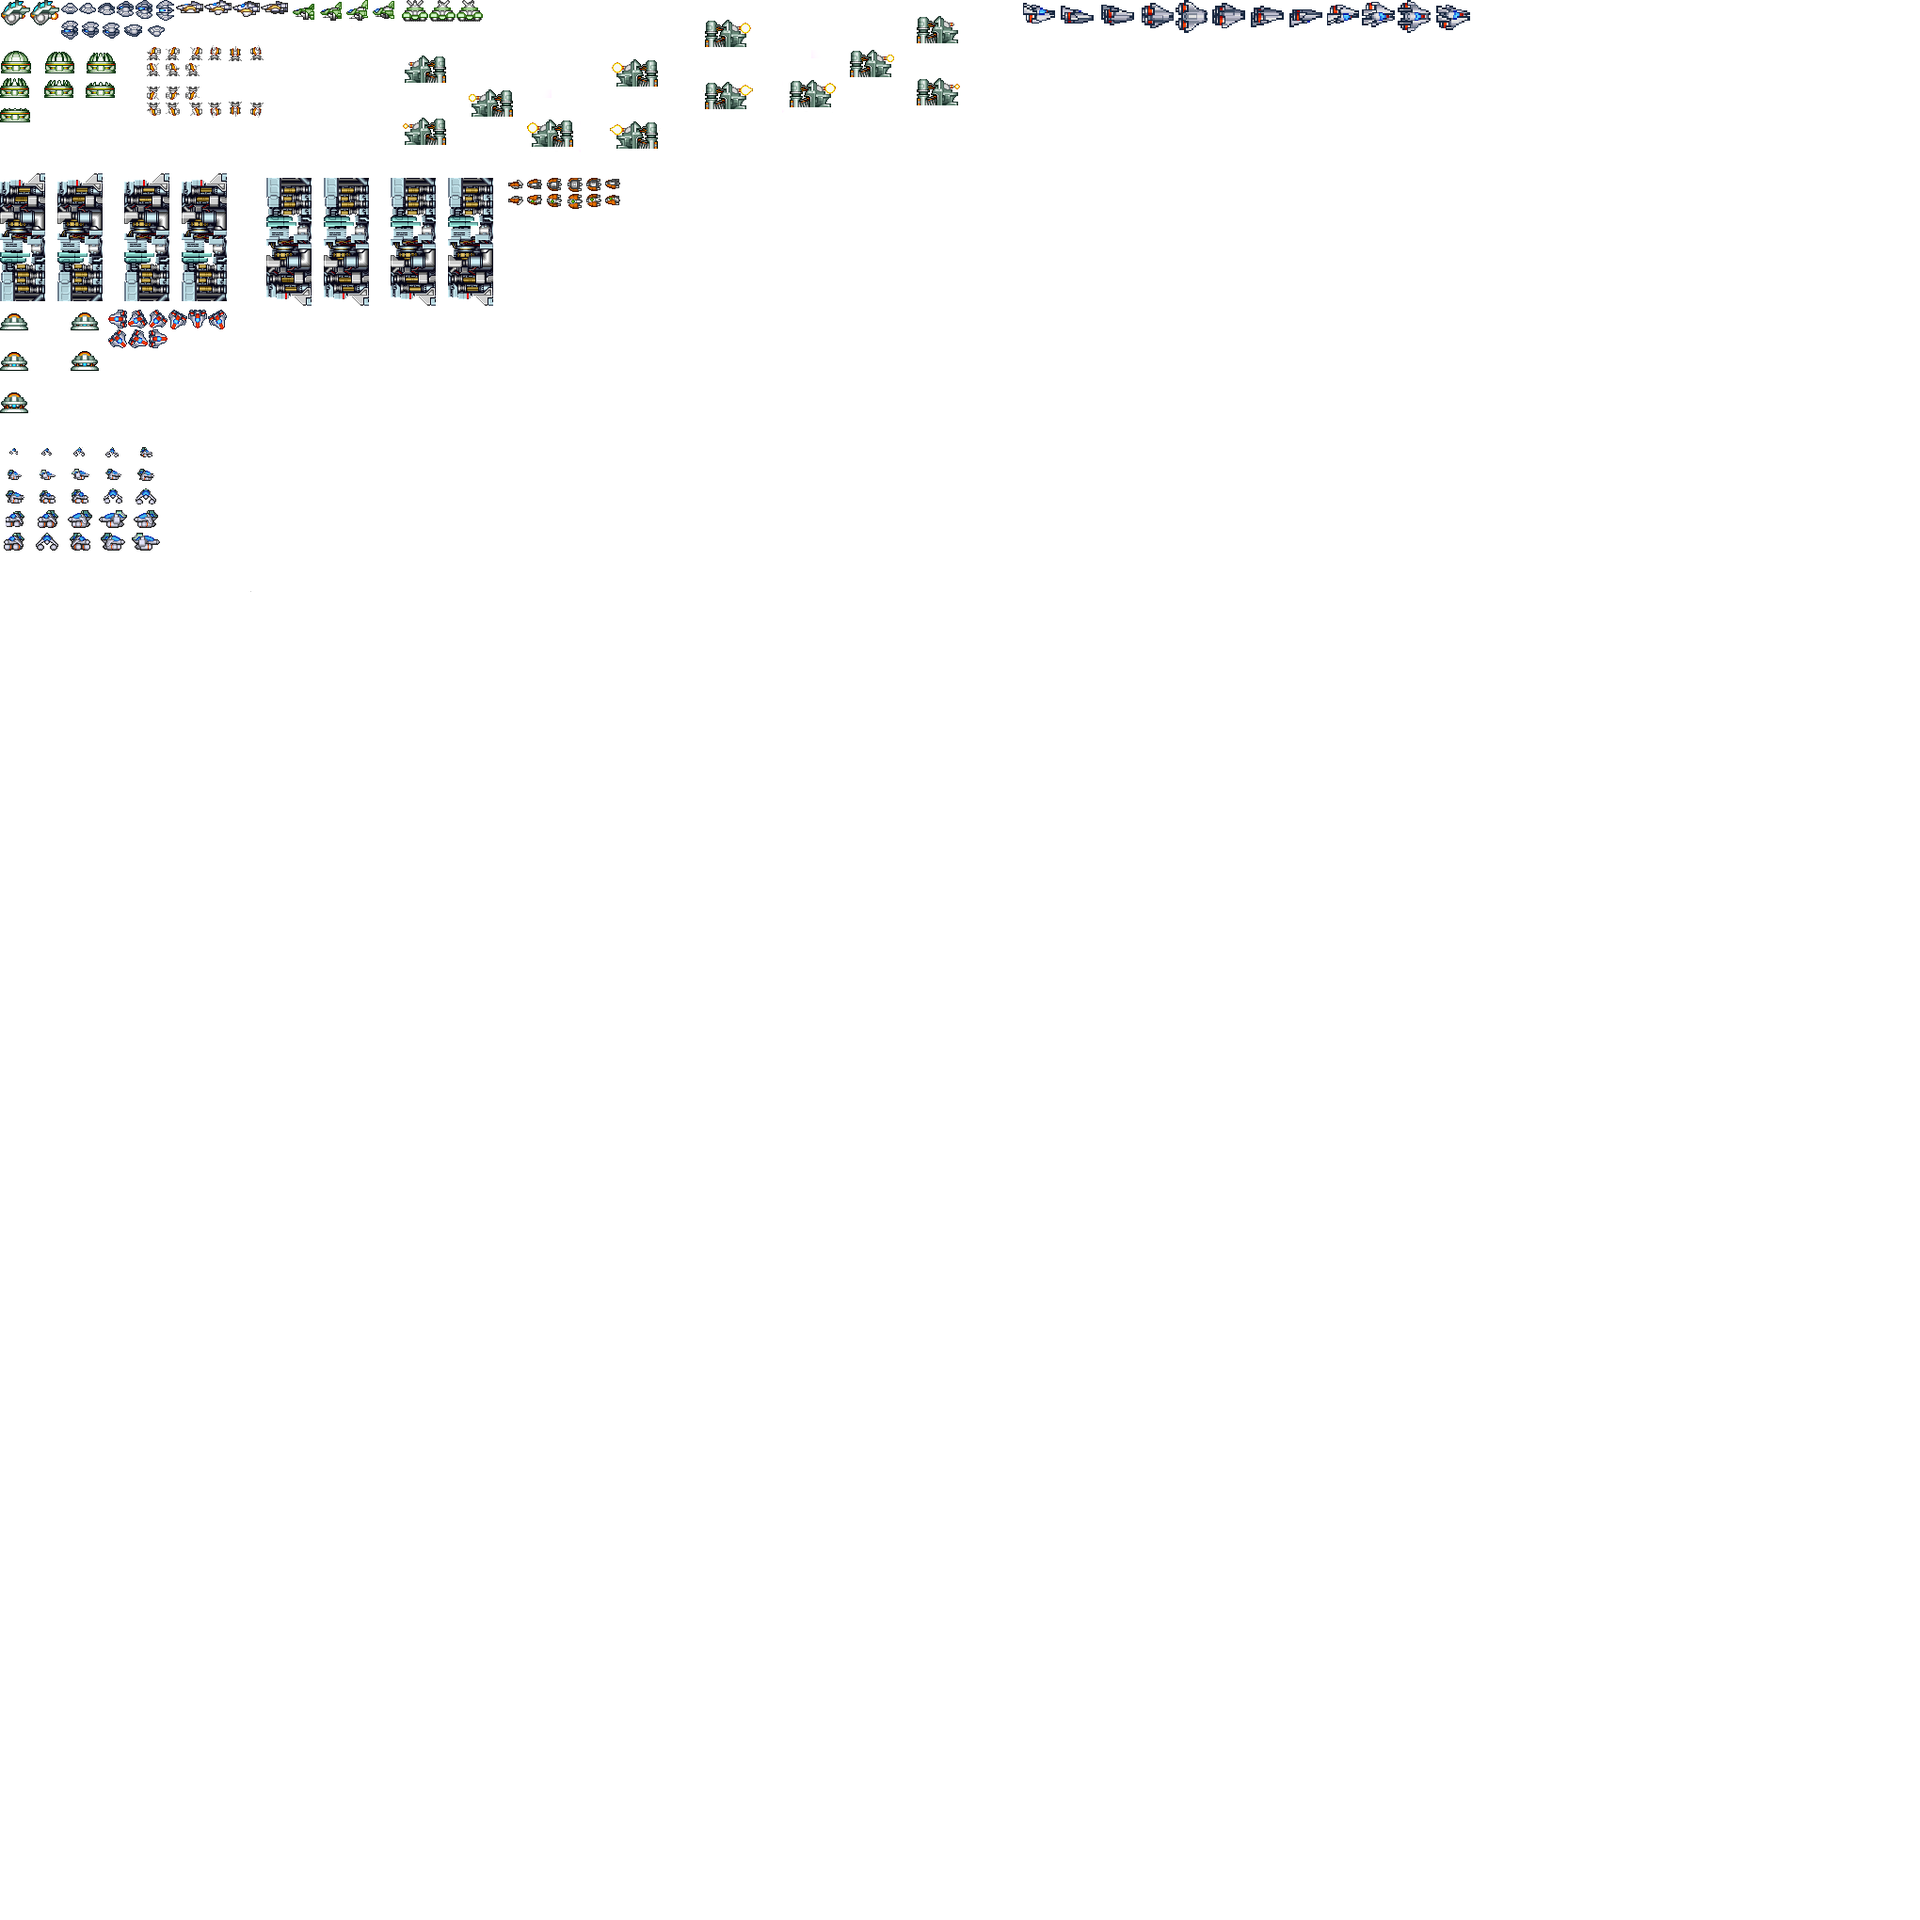
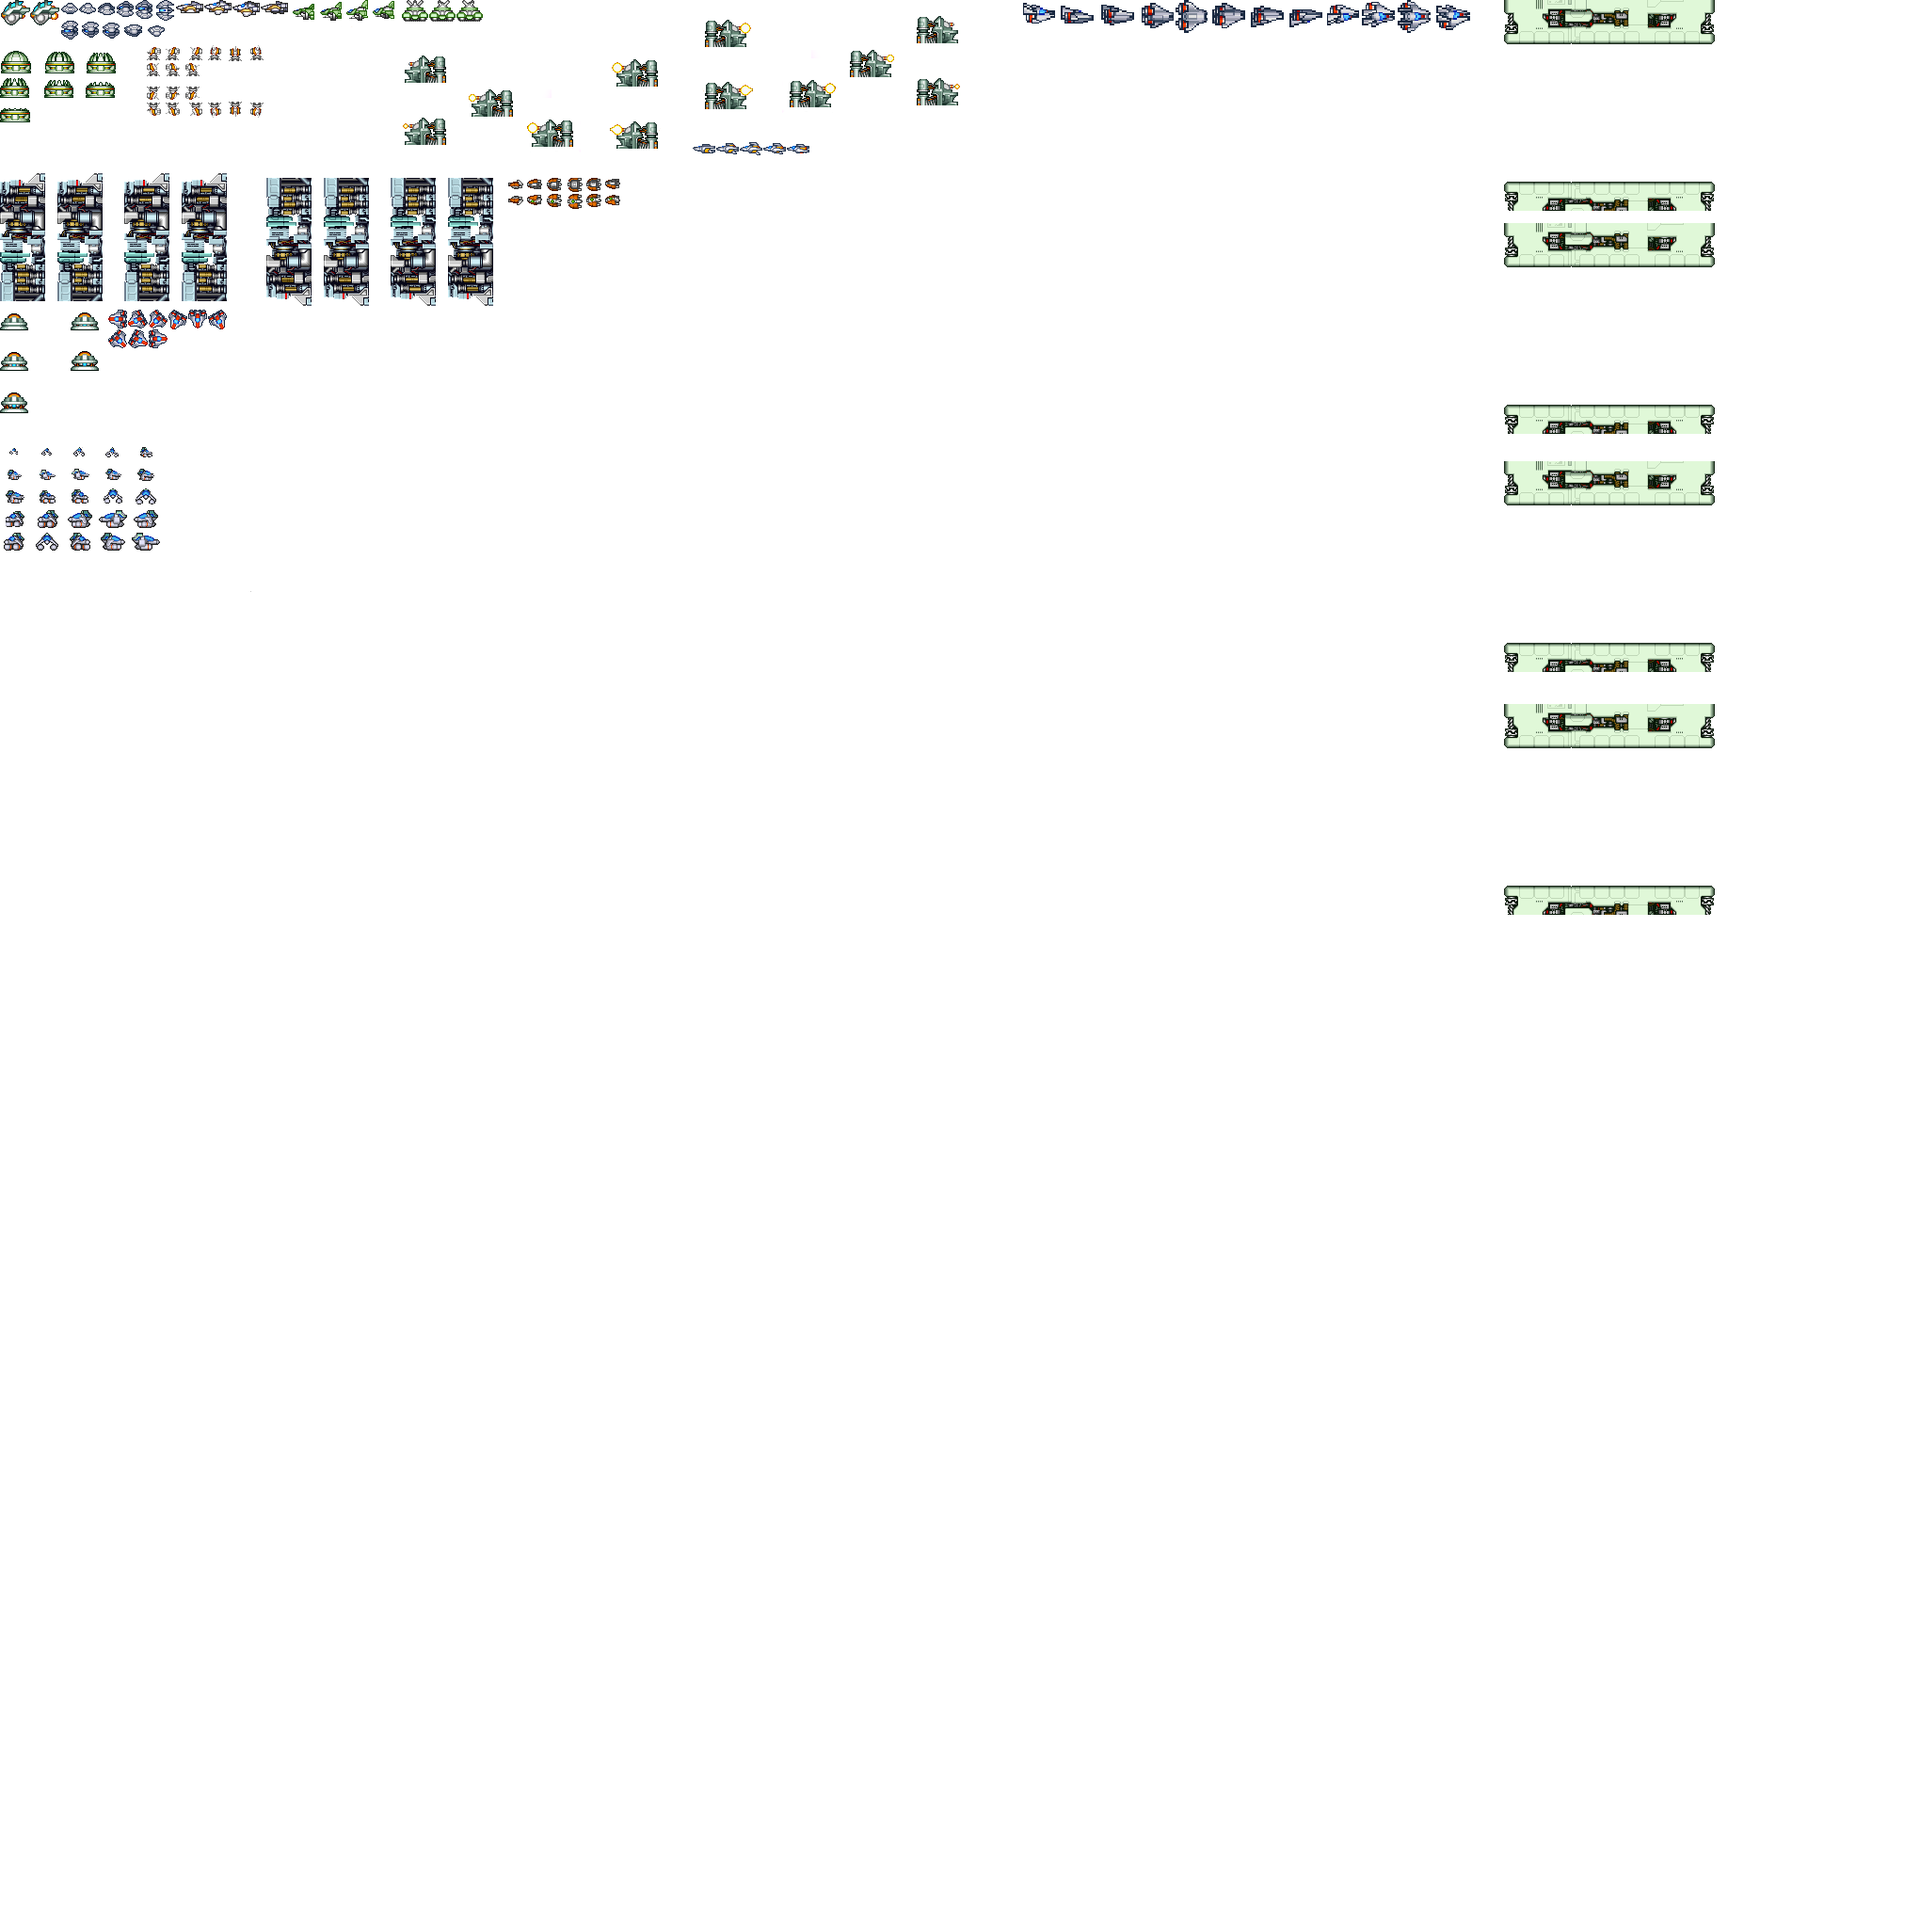
IDK what Ive done

diff --git a/--AndroDunos--#GAME_FILES#/ModuleEnemies.cpp b/--AndroDunos--#GAME_FILES#/ModuleEnemies.cpp
@@ -15,12 +15,14 @@
 #include "Enemy_VerticalStructure.h"
 #include "Enemy_TripleTurret.h"
 #include "Enemy_Elevator.h"
+#include "Enemy_Elevator2.h"
 #include "Enemy_MovementLaser.h"
 #include "Enemy_Ship.h"
 #include "Enemy_HandShip.h"
 #include "Enemy_Multicolor.h"
 #include "Enemy_Small.h"
 #include "ModulePlayer.h"
+#include "Enemy_WhiteYellow.h"
 
 
 
@@ -84,7 +86,7 @@ update_status ModuleEnemies::PostUpdate()
 	{
 		if (enemies[i] != nullptr)
 		{
-			if (enemies[i]->position.x * SCREEN_SIZE < (App->render->camera.x) - SPAWN_MARGIN - 80)
+			if (enemies[i]->position.x * SCREEN_SIZE < (App->render->camera.x) - SPAWN_MARGIN - 80 && !ENEMY_TYPES::ELEVATOR && !ENEMY_TYPES::ELEVATOR2)
 			{
 				delete enemies[i];
 				enemies[i] = nullptr;
@@ -155,7 +157,7 @@ void ModuleEnemies::SpawnEnemy(const EnemyInfo& info)
 			enemies[i] = new Enemy_StraightOnShip(info.x, info.y, info.num);
 			break;
 		case ENEMY_TYPES::SHIPGREEN:
-			enemies[i] = new Enemy_ShipGreen(info.x, info.y);
+			enemies[i] = new Enemy_ShipGreen(info.x, info.y, info.z);
 			break;
 		case ENEMY_TYPES::GREENTURRET:
 			enemies[i] = new Enemy_GreenTurret(info.x, info.y,info.z);
@@ -177,6 +179,9 @@ void ModuleEnemies::SpawnEnemy(const EnemyInfo& info)
 		case ENEMY_TYPES::ELEVATOR:
 			enemies[i] = new Enemy_Elevator(info.x, info.y);
 			break;
+		case ENEMY_TYPES::ELEVATOR2:
+			enemies[i] = new Enemy_Elevator2(info.x, info.y);
+			break;
 		case ENEMY_TYPES::MOVEMENTLASER:
 			enemies[i] = new Enemy_MovementLaser(info.x, info.y);
 			break;
@@ -191,6 +196,9 @@ void ModuleEnemies::SpawnEnemy(const EnemyInfo& info)
 			break;
 		case ENEMY_TYPES::SMALL:
 			enemies[i] = new Enemy_Small(info.x, info.y);
+			break;
+		case ENEMY_TYPES::WHITEYELLOW:
+			enemies[i] = new Enemy_WhiteYellow(info.x, info.y);
 			break;
 		}
 	}
@@ -268,8 +276,9 @@ void ModuleEnemies::OnCollision(Collider* c1, Collider* c2)
 				break;
 			case ELEVATOR:
 				enemies[i]->OnCollision(c2);
-				delete enemies[i];
-				enemies[i] = nullptr;
+				break;
+			case ELEVATOR2:
+				enemies[i]->OnCollision(c2);
 				break;
 			case MOVEMENTLASER:
 				enemies[i]->OnCollision(c2);
@@ -292,6 +301,11 @@ void ModuleEnemies::OnCollision(Collider* c1, Collider* c2)
 				enemies[i] = nullptr;
 				break;
 			case SMALL:
+				enemies[i]->OnCollision(c2);
+				delete enemies[i];
+				enemies[i] = nullptr;
+				break;
+			case WHITEYELLOW:
 				enemies[i]->OnCollision(c2);
 				delete enemies[i];
 				enemies[i] = nullptr;

diff --git a/--AndroDunos--#GAME_FILES#/ModuleStage2.cpp b/--AndroDunos--#GAME_FILES#/ModuleStage2.cpp
@@ -129,13 +129,13 @@ bool ModuleStage2::Start()
 	App->enemies->AddEnemy(ENEMY_TYPES::WHITESHIP, 504, 120);*/
 
 	// well position
-	App->enemies->AddEnemy(ENEMY_TYPES::SHIPGREEN, 270, 140);
-	App->enemies->AddEnemy(ENEMY_TYPES::SHIPGREEN, 295, 163);
-	App->enemies->AddEnemy(ENEMY_TYPES::SHIPGREEN, 320, 140);
+	App->enemies->AddEnemy(ENEMY_TYPES::SHIPGREEN, 270, 140, true);
+	App->enemies->AddEnemy(ENEMY_TYPES::SHIPGREEN, 295, 163, true);
+	App->enemies->AddEnemy(ENEMY_TYPES::SHIPGREEN, 320, 140, true);
 
-	App->enemies->AddEnemy(ENEMY_TYPES::SHIPGREEN, 360, 39);
-	App->enemies->AddEnemy(ENEMY_TYPES::SHIPGREEN, 375, 62);
-	App->enemies->AddEnemy(ENEMY_TYPES::SHIPGREEN, 392, 39);
+	App->enemies->AddEnemy(ENEMY_TYPES::SHIPGREEN, 360, 39, true);
+	App->enemies->AddEnemy(ENEMY_TYPES::SHIPGREEN, 375, 62, true);
+	App->enemies->AddEnemy(ENEMY_TYPES::SHIPGREEN, 392, 39, true);
 
 	App->powerups->AddPowerUp(POWERUPS_TYPES::SHIPPOWERUP, 400, 100);
 
@@ -151,6 +151,9 @@ bool ModuleStage2::Start()
 	App->enemies->AddEnemy(ENEMY_TYPES::VERTICALSTRUCTURE, 2453, -145, false);
 	App->enemies->AddEnemy(ENEMY_TYPES::VERTICALSTRUCTURE, 2614, -145, false); 
 	App->enemies->AddEnemy(ENEMY_TYPES::VERTICALSTRUCTURE, 2757, 245, true);
+
+	App->enemies->AddEnemy(ENEMY_TYPES::ELEVATOR, 3544, -400);
+	App->enemies->AddEnemy(ENEMY_TYPES::ELEVATOR2, 3544, 191);
 
 	App->enemies->AddEnemy(ENEMY_TYPES::GREENTURRET, 3504, 501, false);
 	App->enemies->AddEnemy(ENEMY_TYPES::GREENTURRET, 3761, 501, true);
@@ -240,7 +243,7 @@ update_status ModuleStage2::Update()
 		}
 	}
 
-	if (stop_p == true && App->render->camera.x >= 3502 * SCREEN_SIZE && App->render->camera.x <= 3806 * SCREEN_SIZE && App->render->camera.y >= 0 * SCREEN_SIZE && App->render->camera.y < 1571 * SCREEN_SIZE)
+	if (stop_p == true && App->render->camera.x >= 3502 * SCREEN_SIZE && App->render->camera.x <= 3806 * SCREEN_SIZE && App->render->camera.y >= 0 * SCREEN_SIZE && App->render->camera.y < 1571 * SCREEN_SIZE && App->enemies->timeelevator>=560)
 	{
 		App->render->camera.y += 1 * SCREEN_SIZE; // speed in y axes
 		App->player->position.y += 1;

diff --git a/--AndroDunos--#GAME_FILES#/Enemy_ShipGreen.cpp b/--AndroDunos--#GAME_FILES#/Enemy_ShipGreen.cpp
@@ -9,7 +9,7 @@
 
 
 
-Enemy_ShipGreen::Enemy_ShipGreen(int x, int y) : Enemy(x, y)
+Enemy_ShipGreen::Enemy_ShipGreen(int x, int y, bool gun) : Enemy(x, y)
 {
 	type = SHIPGREEN;
 
@@ -22,24 +22,25 @@ Enemy_ShipGreen::Enemy_ShipGreen(int x, int y) : Enemy(x, y)
 	animation = &fly;
 
 	collider = App->collision->AddCollider({ 0, 0, 23, 22 }, COLLIDER_TYPE::COLLIDER_ENEMY, (Module*)App->enemies);
-
+	this->gun = gun;
 	original_y = y;
 }
 
 void Enemy_ShipGreen::Move()
 {
 	position.x -= 1;
-
-	shot++;
-	if (shot == 60) {
-		x = App->player->position.x - position.x;
-		y = App->player->position.y - position.y;
-		m = sqrt((x*x) + (y*y));
-		x = x / m;
-		y = y / m;
-		App->particles->followlaser.speed.x = x * 1.8f;
-		App->particles->followlaser.speed.y = y * 1.8f;
-		App->particles->AddParticle(App->particles->followlaser, position.x + 8, position.y + 15, COLLIDER_ENEMY_SHOT);
+	if (gun) {
+		shot++;
+		if (shot == 60) {
+			x = App->player->position.x - position.x;
+			y = App->player->position.y - position.y;
+			m = sqrt((x*x) + (y*y));
+			x = x / m;
+			y = y / m;
+			App->particles->followlaser.speed.x = x * 1.8f;
+			App->particles->followlaser.speed.y = y * 1.8f;
+			App->particles->AddParticle(App->particles->followlaser, position.x + 8, position.y + 15, COLLIDER_ENEMY_SHOT);
+		}
 	}
 }
 

diff --git a/--AndroDunos--#GAME_FILES#/Enemy_WhiteYellow.cpp b/--AndroDunos--#GAME_FILES#/Enemy_WhiteYellow.cpp
@@ -1,0 +1,38 @@
+#include "Application.h"
+#include "Enemy_WhiteYellow.h"
+#include "ModuleCollision.h"
+#include "ModuleParticles.h"
+#include "ModuleEnemies.h"
+
+Enemy_WhiteYellow::Enemy_WhiteYellow(int x, int y) : Enemy(x, y)
+{
+	type = WHITEYELLOW;
+
+	fly.PushBack({ 736,153,24,10 });
+	fly.PushBack({ 761,152,24,12 });
+	fly.PushBack({ 786,151,24,14 });
+	fly.PushBack({ 811,152,24,12 });
+	fly.PushBack({ 836,153,24,10 });
+	fly.PushBack({ 811,152,24,12 });
+	fly.PushBack({ 786,151,24,14 });
+	fly.PushBack({ 761,152,24,12 });
+
+	fly.speed = 0.1f;
+
+	animation = &fly;
+
+	collider = App->collision->AddCollider({ 0, 0, 24, 12 }, COLLIDER_TYPE::COLLIDER_ENEMY, (Module*)App->enemies);
+
+	original_y = y;
+}
+
+void Enemy_WhiteYellow::Move()
+{
+
+	position.x -= 1;
+
+}
+
+void Enemy_WhiteYellow::OnCollision(Collider* collider) {
+	App->particles->AddParticle(App->particles->explosion, position.x, position.y);
+}

diff --git a/--AndroDunos--#GAME_FILES#/Enemy_Elevator.cpp b/--AndroDunos--#GAME_FILES#/Enemy_Elevator.cpp
@@ -10,14 +10,25 @@ Enemy_Elevator::Enemy_Elevator(int x, int y) : Enemy(x, y)
 {
 	type = ELEVATOR;
 	
+	elevator.PushBack({ 1598, 0, 224, 47 });
+	elevator.PushBack({ 1598, 237, 224, 47 });
+	elevator.PushBack({ 1598, 490, 224, 47 });
+	elevator.PushBack({ 1598, 748, 224, 47 });
+	elevator.speed = 0.02f;
+	animation = &elevator;
 
-	collider = App->collision->AddCollider({ 0, 0, 44, 29 }, COLLIDER_TYPE::COLLIDER_ENEMY, (Module*)App->enemies);
+	path.PushBack({ 0.0f, 1.0f }, 400);
+	path.PushBack({ 0.0f, 0.0f }, 160);
+	path.PushBack({ 0.0f, 1.0f }, 1500);
+	collider = App->collision->AddCollider({ 0, 0, 224, 47 }, COLLIDER_TYPE::COLLIDER_ENEMY, (Module*)App->enemies);
 
-	original_y = y;
+	original_pos.x = x;
+	original_pos.y = y;
 }
 void Enemy_Elevator::Move()
 {
-
+	position = original_pos + path.GetCurrentSpeed();
+	App->enemies->timeelevator++;
 }
 void Enemy_Elevator::OnCollision(Collider* collider) {
 

diff --git a/--AndroDunos--#GAME_FILES#/Enemy_Elevator2..cpp b/--AndroDunos--#GAME_FILES#/Enemy_Elevator2..cpp
@@ -1,0 +1,30 @@
+#include "Application.h"
+#include "Enemy_Elevator2.h"
+#include "ModuleCollision.h"
+#include "ModuleParticles.h"
+#include "ModuleEnemies.h"
+#include "ModulePlayer.h"
+#include "SDL/include/SDL_timer.h"
+
+Enemy_Elevator2::Enemy_Elevator2(int x, int y) : Enemy(x, y)
+{
+	type = ELEVATOR2;
+
+	elevator.PushBack({ 1598, 193, 224, 31 });
+	elevator.PushBack({ 1598, 430, 224, 31 });
+	elevator.PushBack({ 1598, 683, 224, 31 });
+	elevator.PushBack({ 1598, 941, 224, 31 });
+	elevator.speed = 0.02f;
+	animation = &elevator;
+
+	collider = App->collision->AddCollider({ 0, 0, 224, 31 }, COLLIDER_TYPE::COLLIDER_ENEMY, (Module*)App->enemies);
+
+	original_y = y;
+}
+void Enemy_Elevator2::Move()
+{
+
+}
+void Enemy_Elevator2::OnCollision(Collider* collider) {
+
+}

diff --git a/--AndroDunos--#GAME_FILES#/ModuleEnemies.h b/--AndroDunos--#GAME_FILES#/ModuleEnemies.h
@@ -12,10 +12,12 @@
 #include "Enemy_VerticalStructure.h"
 #include "Enemy_TripleTurret.h"
 #include "Enemy_Elevator.h"
+#include "Enemy_Elevator2.h"
 #include "Enemy_MovementLaser.h"
 #include "Enemy_Ship.h"
 #include "Enemy_HandShip.h"
 #include "Enemy_Multicolor.h"
+#include "Enemy_WhiteYellow.h"
 #include "Enemy_Small.h"
 
 #define MAX_ENEMIES 100
@@ -47,7 +49,7 @@ public:
 	bool tocuh = false, dead = false, verticalstructuredead = false, sub_Boss_Dead = false;
 	bool touch2 = false, dead2=false;
 	bool AddEnemy(ENEMY_TYPES type, int x, int y, bool z = false, int num = 1);
-
+	int timeelevator = 0;
 private:
 
 	void SpawnEnemy(const EnemyInfo& info);

diff --git a/--AndroDunos--#GAME_FILES#/ModulePlayer.cpp b/--AndroDunos--#GAME_FILES#/ModulePlayer.cpp
@@ -340,7 +340,7 @@ update_status ModulePlayer::Update()
 
 	if (App->input->keyboard[SDL_SCANCODE_E] == KEY_STATE::KEY_DOWN)
 	{
-		App->enemies->AddEnemy(ENEMY_TYPES::SMALL, position.x + 250, position.y,false, 3);
+		App->enemies->AddEnemy(ENEMY_TYPES::ELEVATOR2, position.x + 250, position.y,false, 3);
 		//App->powerups->AddPowerUp(POWERUPS_TYPES::SHIPPOWERUP, position.x + 250, position.y);
 	}
 

diff --git a/--AndroDunos--#GAME_FILES#/Enemy_MovementLaser.cpp b/--AndroDunos--#GAME_FILES#/Enemy_MovementLaser.cpp
@@ -23,7 +23,7 @@ Enemy_MovementLaser::Enemy_MovementLaser(int x, int y) : Enemy(x, y)
 	animation = &enemy;
 
 
-	collider = App->collision->AddCollider({ 0, 0, 44, 22 }, COLLIDER_TYPE::COLLIDER_ENEMY, (Module*)App->enemies);
+	collider = App->collision->AddCollider({ 0, 0, 30, 22 }, COLLIDER_TYPE::COLLIDER_ENEMY, (Module*)App->enemies);
 
 	original_y = y;
 }

diff --git a/--AndroDunos--#GAME_FILES#/Enemy_Small.cpp b/--AndroDunos--#GAME_FILES#/Enemy_Small.cpp
@@ -31,7 +31,7 @@ Enemy_Small::Enemy_Small(int x, int y) : Enemy(x, y)
 	animation = &fly;
 
 
-	collider = App->collision->AddCollider({ 0, 0, 35, 25 }, COLLIDER_TYPE::COLLIDER_ENEMY, (Module*)App->enemies);
+	collider = App->collision->AddCollider({ 0, 0, 16, 12 }, COLLIDER_TYPE::COLLIDER_ENEMY, (Module*)App->enemies);
 
 	original_y = y;
 }

diff --git a/--AndroDunos--#GAME_FILES#/Enemy_WhiteYellow.h b/--AndroDunos--#GAME_FILES#/Enemy_WhiteYellow.h
@@ -1,0 +1,20 @@
+#ifndef __ENEMY_WHITEYELLOW_H__
+#define __ENEMY_WHITEYELLOW_H__
+
+#include "Enemy.h"
+
+class Enemy_WhiteYellow : public Enemy
+{
+private:
+	int original_y = 0;
+	Animation fly;
+
+
+public:
+
+	Enemy_WhiteYellow(int x, int y);
+	void OnCollision(Collider* collider);
+	void Move();
+};
+
+#endif

diff --git a/--AndroDunos--#GAME_FILES#/Enemy_Elevator2.h b/--AndroDunos--#GAME_FILES#/Enemy_Elevator2.h
@@ -1,0 +1,20 @@
+#ifndef __ENEMY_ELEVATOR2_H__
+#define __ENEMY_ELEVATOR2_H__
+
+#include "Enemy.h"
+
+class Enemy_Elevator2 : public Enemy
+{
+private:
+	int original_y = 0;
+	Animation elevator;
+
+
+public:
+
+	Enemy_Elevator2(int x, int y);
+	void OnCollision(Collider* collider);
+	void Move();
+};
+
+#endif
